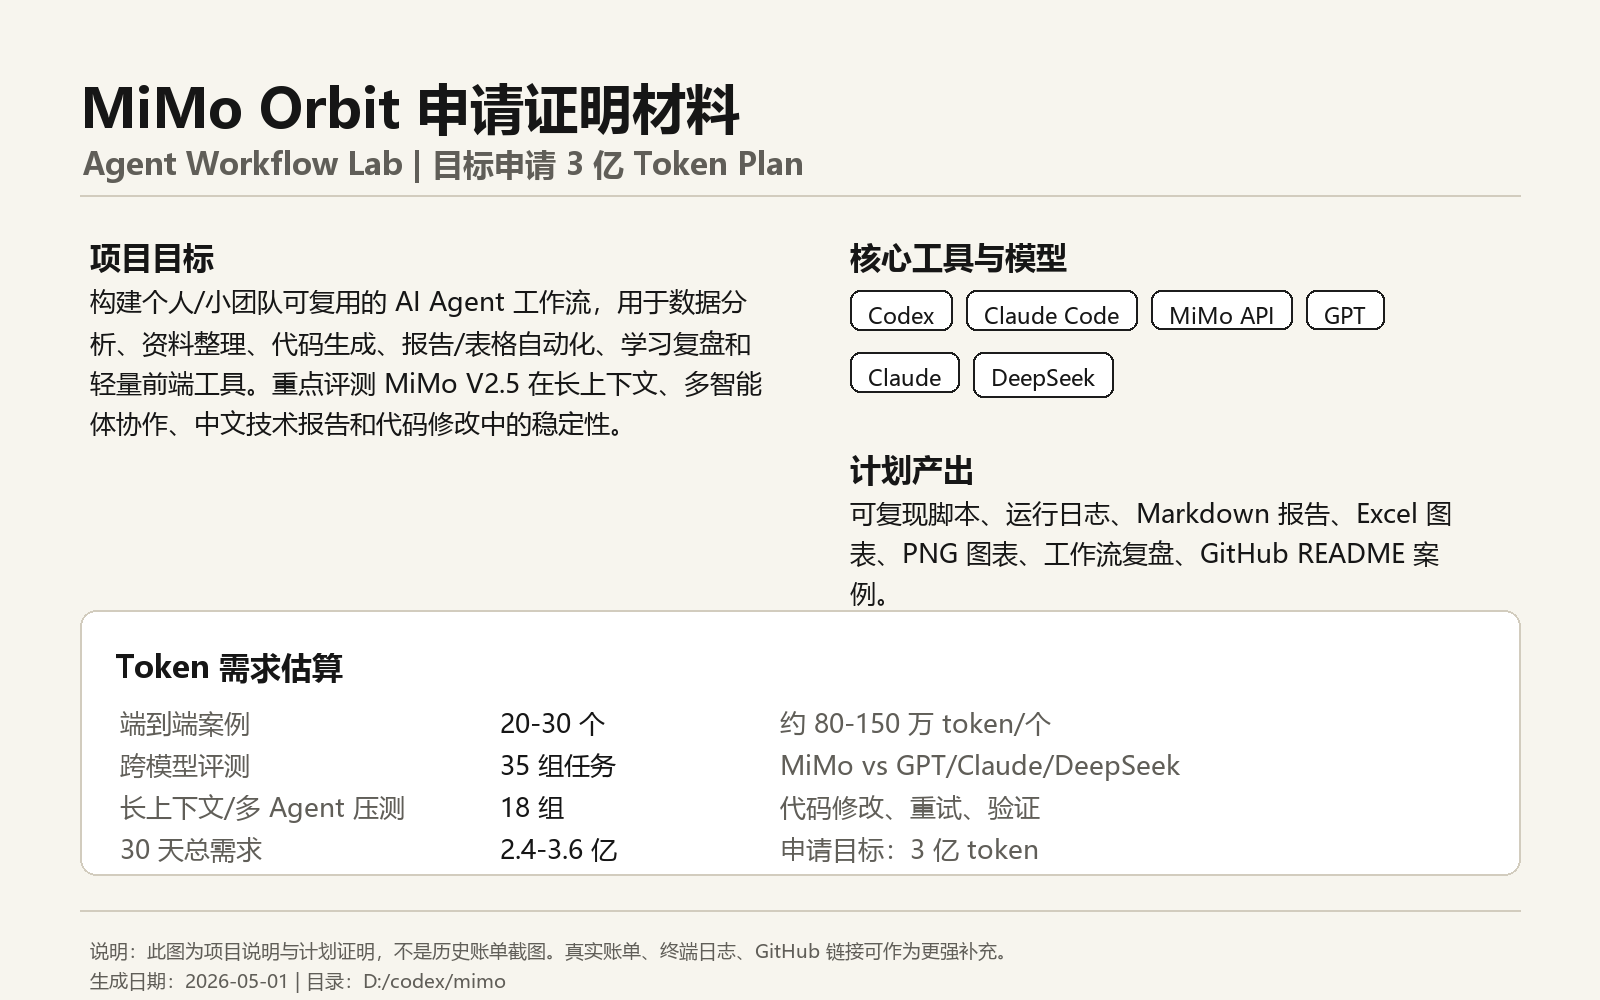
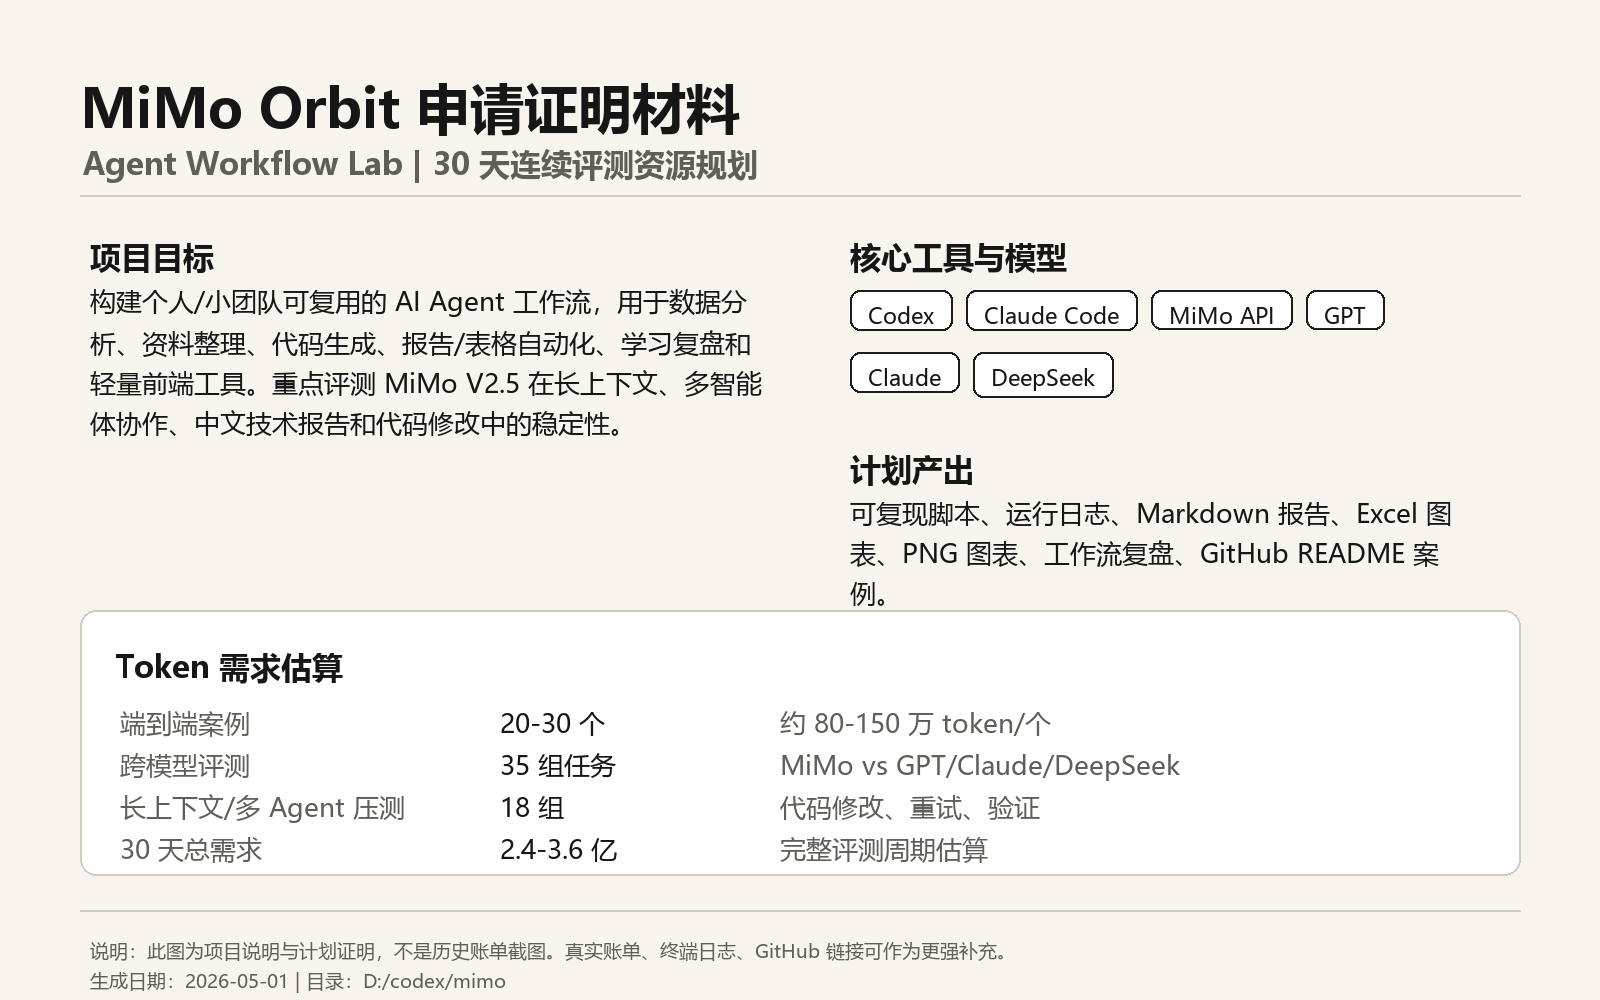
Refine MiMo resource planning language

Changed region(s): [[0.25, 0.124, 0.5, 0.186], [0.4688, 0.837, 0.6562, 0.868]]

diff --git a/projects/agent-dashboard/app.js b/projects/agent-dashboard/app.js
@@ -179,7 +179,7 @@ function buildSubmissionText() {
   const publicOutputs = workflows.filter((workflow) => workflow.publicOutput).length;
   return `我正在构建 MiMo Agent Workflow Lab，一个面向个人和小团队的 AI Agent 工作流项目。它包含静态工作流仪表盘、CSV 数据报告生成器和模型回答评测工具，覆盖${domains}等场景。核心痛点是日常任务跨数据、脚本、图表、报告和代码修改，人工切换成本高，而 Agent 工作流需要长上下文、多轮重试、执行验证和跨模型对照，普通赠额很快耗尽。
 
-目前计划在 30 天内运行 ${workflows.length} 类工作流，合计约 ${formatTokens(total)} token，其中 ${publicOutputs} 类会沉淀为 README、报告、截图或评测记录。Token 将用于 MiMo API 接入、Codex/Claude Code/OpenClaw 工作流测试、MiMo 与 GPT/Claude/DeepSeek 同题对照、中文报告生成、代码修改验证和失败重试复盘。我希望申请 3 亿 Token Plan 或等值赠金，用于完成 20-30 个端到端案例并公开整理结果。`;
+目前计划在 30 天内运行 ${workflows.length} 类工作流，合计约 ${formatTokens(total)} token，其中 ${publicOutputs} 类会沉淀为 README、报告、截图或评测记录。Token 将用于 MiMo API 接入、Codex/Claude Code/OpenClaw 工作流测试、MiMo 与 GPT/Claude/DeepSeek 同题对照、中文报告生成、代码修改验证和失败重试复盘，最终完成 20-30 个端到端案例并公开整理结果。`;
 }
 
 function render() {

diff --git a/projects/agent-dashboard/index.html b/projects/agent-dashboard/index.html
@@ -9,12 +9,12 @@
   <body>
     <header class="topbar">
       <div>
-        <p class="eyebrow">MiMo Orbit application project</p>
+        <p class="eyebrow">MiMo Orbit workflow project</p>
         <h1>Agent Workflow Lab</h1>
       </div>
       <div class="target">
-        <span>目标额度</span>
-        <strong>300M tokens</strong>
+        <span>阶段计划</span>
+        <strong>30 天评测</strong>
       </div>
     </header>
 
@@ -84,7 +84,7 @@
             </div>
             <div class="actions">
               <button id="resetBtn" type="button">恢复样例</button>
-              <button id="copyBtn" type="button">生成申请摘要</button>
+              <button id="copyBtn" type="button">生成项目摘要</button>
             </div>
           </div>
 
@@ -93,10 +93,10 @@
         </section>
       </section>
 
-      <section class="output-section" aria-label="submission copy">
+      <section class="output-section" aria-label="project summary">
         <div class="panel-header">
           <div>
-            <h2>申请摘要</h2>
+            <h2>项目摘要</h2>
             <p>可以复制到 MiMo Orbit 表单第 04 项，按你的真实情况微调。</p>
           </div>
         </div>

diff --git a/tools/make_proof_card.py b/tools/make_proof_card.py
@@ -81,7 +81,7 @@ def main():
     tiny = font(19)
 
     d.text((80, 70), "MiMo Orbit 申请证明材料", font=title, fill=ink)
-    d.text((82, 142), "Agent Workflow Lab | 目标申请 3 亿 Token Plan", font=h2, fill=muted)
+    d.text((82, 142), "Agent Workflow Lab | 30 天连续评测资源规划", font=h2, fill=muted)
     d.line((80, 195, 1520, 195), fill=line, width=2)
 
     y = 235
@@ -125,7 +125,7 @@ def main():
         ("端到端案例", "20-30 个", "约 80-150 万 token/个"),
         ("跨模型评测", "35 组任务", "MiMo vs GPT/Claude/DeepSeek"),
         ("长上下文/多 Agent 压测", "18 组", "代码修改、重试、验证"),
-        ("30 天总需求", "2.4-3.6 亿", "申请目标：3 亿 token"),
+        ("30 天总需求", "2.4-3.6 亿", "完整评测周期估算"),
     ]
     yy = 705
     for a, b, c in rows:

diff --git a/projects/data-report-agent/src/report_agent.py b/projects/data-report-agent/src/report_agent.py
@@ -123,7 +123,7 @@ def render_markdown(records: list[WorkflowRecord]) -> str:
             "",
             "## 申请说明",
             "",
-            "这些数据用于说明 3 亿 token 申请目标的消耗来源：长上下文输入、模型输出、失败重试、验证轮次和公开案例整理都会产生实际 token 成本。",
+            "这些数据用于说明 30 天连续评测的资源消耗来源：长上下文输入、模型输出、失败重试、验证轮次和公开案例整理都会产生实际 token 成本。",
         ]
     )
     return "\n".join(lines) + "\n"

diff --git a/MiMo_Orbit_申请填写稿.md b/MiMo_Orbit_申请填写稿.md
@@ -1,6 +1,6 @@
 # MiMo Orbit 申请填写稿
 
-> 说明：平台人工评估，不能保证一定通过或一定拿到某个档位。下面这版按“目标申请 3 亿 token”写，重点突出真实项目、可复现工作流和合理消耗估算。
+> 说明：平台人工评估，不能保证一定通过或一定拿到某个档位。下面这版重点突出真实项目、可复现工作流和阶段性资源规划。
 
 ## 01 你的邮箱
 
@@ -51,11 +51,11 @@ Gemini 系列
 复制下面这段到第 04 项：
 
 ```text
-我正在构建 MiMo Agent Workflow Lab，一个面向个人和小团队的 AI Agent 工作流项目。目前已做出三个可运行子项目：1. 静态工作流仪表盘，用于登记 Agent 流程、估算 30 天 token 和生成申请摘要；2. Python CSV 数据报告生成器，可输出 Markdown 报告和 SVG 图表；3. 模型回答评测工具，可读取 prompt suite 和多模型回答，生成评分报告与 CSV 汇总。
+我正在构建 MiMo Agent Workflow Lab，一个面向个人和小团队的 AI Agent 工作流项目。目前已做出三个可运行子项目：1. 静态工作流仪表盘，用于登记 Agent 流程、估算 30 天 token 和生成项目摘要；2. Python CSV 数据报告生成器，可输出 Markdown 报告和 SVG 图表；3. 模型回答评测工具，可读取 prompt suite 和多模型回答，生成评分报告与 CSV 汇总。
 
 核心痛点是：日常任务经常跨 CSV/Excel、网页资料、脚本、Markdown/Word、图表和前端小工具，人工切换成本高；而 Agent 工作流需要长上下文、多轮重试、代码执行、结果校验和跨模型对照，普通赠额很快耗尽。我的流程是用 Codex/Claude Code 读取需求和目录，生成任务拆分；再用脚本完成数据清洗、报告生成、可视化和评测；后续通过 MiMo API 接入 Codex/OpenClaw 或自写脚本，对 MiMo V2.5 与 GPT/Claude/DeepSeek 做同题评测。
 
-我希望申请 3 亿 Token Plan（或等值赠金）。当前样例数据估算 30 天消耗约 3.52 亿 token，来源包括 114 个工作流案例、跨模型评测、长上下文知识库整理、代码修改验证和失败重试。Token 将用于真实项目构建、MiMo 接入评测、自动化工作流复盘和公开案例整理。
+当前项目已形成一轮 30 天连续评测计划，样例数据测算约 3.52 亿 token，来源包括 114 个工作流案例、跨模型评测、长上下文知识库整理、代码修改验证和失败重试。Token 将用于 MiMo 接入评测、真实项目构建、自动化工作流复盘和公开案例整理，最终沉淀为可复现脚本、截图、报告和 GitHub 案例。
 ```
 
 ## 05 使用证明与影响力证明

diff --git a/docs/submission_project_summary.md b/docs/submission_project_summary.md
@@ -25,14 +25,16 @@ MiMo Agent Workflow Lab
    - 读取 prompt suite 和模型回答，计算覆盖率、结构化程度和具体性分。
    - 适合证明“MiMo 与 GPT/Claude/DeepSeek 同题评测”的计划和方法。
 
-## 申请额度口径
+## 资源规划口径
 
-建议申请 3 亿 token Token Plan 或等值赠金。理由不是“想要更多”，而是 30 天内会进行：
+建议把重点放在 30 天连续评测和真实项目产出上，让资源需求自然来自工作量本身：
 
 - 20-30 个端到端数据/工作流案例。
 - 35 组跨模型评测。
 - 18 组长上下文、多 Agent、失败重试与验证场景。
 - 每个案例沉淀为脚本、日志、报告、截图和 README。
+
+按当前样例数据，完整跑完一轮预计会消耗约 3.52 亿 token。这个数字用于解释工作量规模，不建议写成硬性目标。
 
 ## 上传材料优先级
 

diff --git a/README.md b/README.md
@@ -8,14 +8,14 @@
 
 ## 真实子项目
 
-- `projects/agent-dashboard`：静态网页仪表盘，用于登记 Agent 工作流、估算 token 和生成申请摘要。
+- `projects/agent-dashboard`：静态网页仪表盘，用于登记 Agent 工作流、估算 token 和生成项目摘要。
 - `projects/data-report-agent`：Python CSV 报告生成器，输出 Markdown 报告和 SVG 图表。
 - `projects/eval-harness`：Python 模型评测记录工具，输出评分报告和 CSV 汇总。
 
-## 申请目标
+## 资源规划
 
-- 目标额度：3 亿 token Token Plan，或等值赠金。
-- 合理区间：2.4 亿到 3.6 亿 token。
+- 阶段目标：完成一轮 30 天连续 Agent 工作流评测。
+- 估算消耗：2.4 亿到 3.6 亿 token。
 - 使用周期：30 天。
 - 主要用途：真实项目构建、MiMo 接入评测、跨模型对照、自动化日志和公开案例整理。
 

diff --git a/proof/data-report-demo/report.md b/proof/data-report-demo/report.md
@@ -20,4 +20,4 @@
 
 ## 申请说明
 
-这些数据用于说明 3 亿 token 申请目标的消耗来源：长上下文输入、模型输出、失败重试、验证轮次和公开案例整理都会产生实际 token 成本。
+这些数据用于说明 30 天连续评测的资源消耗来源：长上下文输入、模型输出、失败重试、验证轮次和公开案例整理都会产生实际 token 成本。

diff --git a/projects/agent-dashboard/README.md b/projects/agent-dashboard/README.md
@@ -14,7 +14,7 @@ projects/agent-dashboard/index.html
 
 - 管理多条 Agent 工作流记录。
 - 按任务数、单任务 token、重试系数估算 30 天消耗。
-- 生成条形图和申请摘要。
+- 生成条形图和项目摘要。
 - 使用 `localStorage` 保存本地编辑内容。
 
 ## 适合作为证明的点
